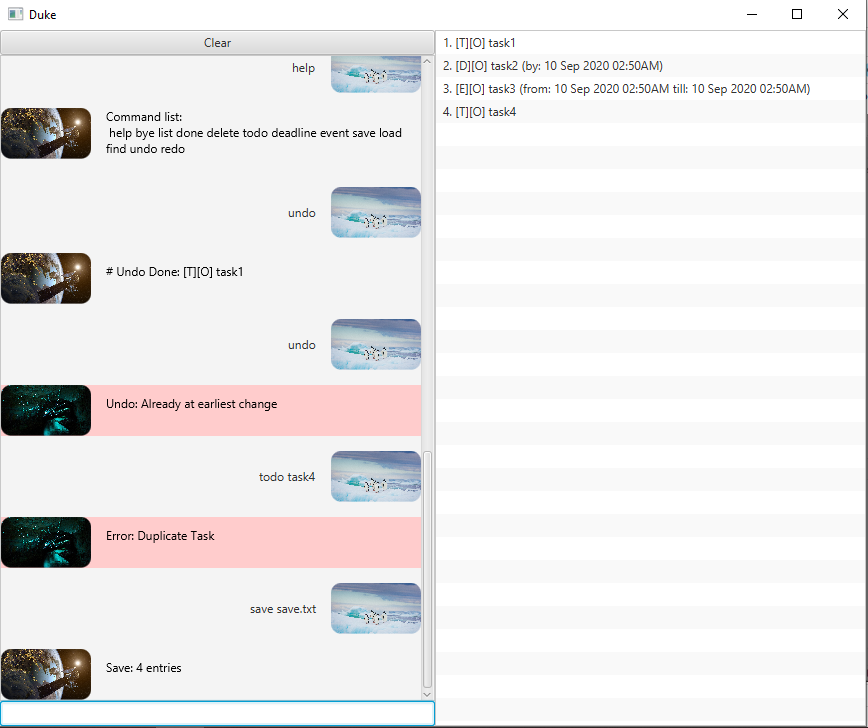
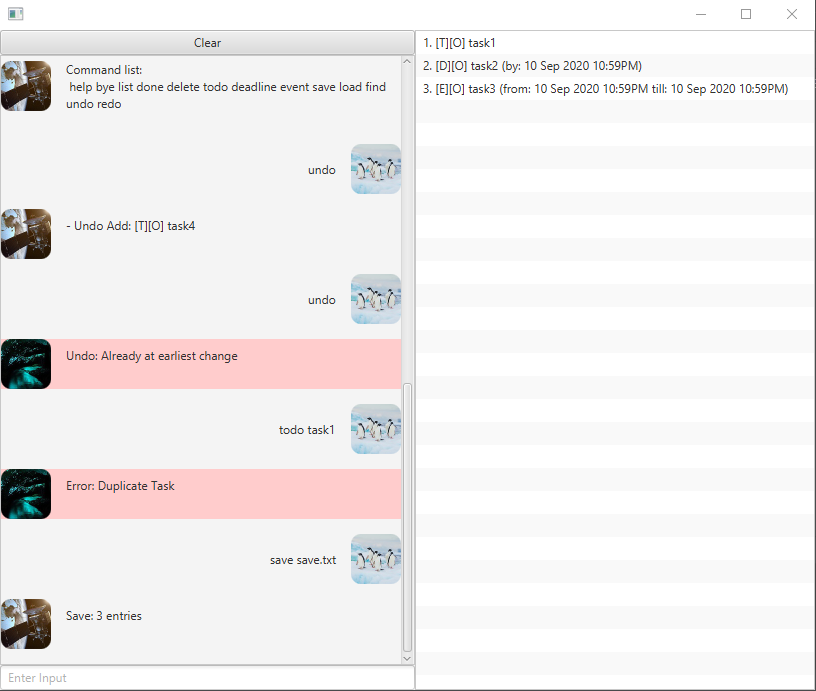
Code Cleanup

Changed region(s): [[0.0, 0.0, 1.0, 1.0], [0.0, 0.3039, 0.2757, 0.4255]]

diff --git a/src/main/java/duke/gui/controller/MainWindow.java b/src/main/java/duke/gui/controller/MainWindow.java
@@ -24,7 +24,7 @@ import javafx.scene.layout.VBox;
  */
 public class MainWindow extends BorderPane {
 
-    private static final String WELCOME_MESSAGE = "Welcome to Duke!";
+    private static final String WELCOME_MESSAGE = "Humans at your service!";
 
     @FXML
     private VBox dialogContainer;
@@ -57,11 +57,11 @@ public class MainWindow extends BorderPane {
         errorStream = new ByteArrayOutputStream();
         System.setErr(new PrintStream(errorStream));
 
-        // Duke variables
+        // Initialize Duke variables
         ObservableList<Task> taskList = FXCollections.observableArrayList();
         dukeData = new DukeData(taskList);
 
-        // fxml variables
+        // Initialize taskView
         taskView.setItems(taskList);
         taskView.setCellFactory(listView -> new IndexListCell<>());
 
@@ -133,10 +133,12 @@ public class MainWindow extends BorderPane {
         assert dialogContainer != null;
         assert userInput != null;
 
-        if (!userInput.isBlank()) {
-            Pane inputBubble = ChatBubble.getUserDialog(userInput, userAvatar);
-            dialogContainer.getChildren().add(inputBubble);
+        if (userInput.isBlank()) {
+            return;
         }
+
+        Pane inputBubble = ChatBubble.getUserDialog(userInput, userAvatar);
+        dialogContainer.getChildren().add(inputBubble);
     }
 
     /**
@@ -147,10 +149,12 @@ public class MainWindow extends BorderPane {
         assert dialogContainer != null;
         assert outputMessage != null;
 
-        if (!outputMessage.isBlank()) {
-            Pane outputBubble = ChatBubble.getDukeDialog(outputMessage, dukeAvatar);
-            dialogContainer.getChildren().add(outputBubble);
+        if (outputMessage.isBlank()) {
+            return;
         }
+
+        Pane outputBubble = ChatBubble.getDukeDialog(outputMessage, dukeAvatar);
+        dialogContainer.getChildren().add(outputBubble);
     }
 
     /**
@@ -161,10 +165,12 @@ public class MainWindow extends BorderPane {
         assert dialogContainer != null;
         assert errorMessage != null;
 
-        if (!errorMessage.isBlank()) {
-            Pane errorBubble = ChatBubble.getErrorDialog(errorMessage, errorAvatar);
-            dialogContainer.getChildren().add(errorBubble);
+        if (errorMessage.isBlank()) {
+            return;
         }
+
+        Pane errorBubble = ChatBubble.getErrorDialog(errorMessage, errorAvatar);
+        dialogContainer.getChildren().add(errorBubble);
     }
 
 }

diff --git a/src/main/java/duke/core/DukeLogic.java b/src/main/java/duke/core/DukeLogic.java
@@ -29,15 +29,15 @@ public class DukeLogic {
 
             // Add command to history
             if (command instanceof ReversibleExecutable) {
-                ReversibleExecutable reversibleCommand = (ReversibleExecutable) command;
-                dukeData.getHistory().add(reversibleCommand);
+                dukeData.getHistory().add((ReversibleExecutable) command);
             }
 
-        } catch (DukeParserException e) { // Input cannot be parsed, notify user
-            System.err.println(e.getMessage());
-        } catch (CommandException e) { // Command cannot be executed
+        } catch (DukeParserException | CommandException e) {
+            // DukeParserException: Input cannot be parsed
+            // CommandException: Command cannot be executed
             System.err.println(e.getMessage());
         }
+
     }
 
 }

diff --git a/src/main/java/duke/core/parser/CsvToTask.java b/src/main/java/duke/core/parser/CsvToTask.java
@@ -59,14 +59,13 @@ public enum CsvToTask {
      * Factory method to obtain a Task from its csv representation
      * @param csv The csv representation of a task.
      * @return The task represented by the csv
-     * @throws Exception If the csv cannot be parsed
      */
     public static Task parse(String csv) {
         assert csv != null;
         try (Scanner scanner = new Scanner(csv)) {
             scanner.useDelimiter(",");
             return CsvToTask.valueOf(scanner.next()).parse(scanner);
-        } catch (Exception e) { // Many types of parse error
+        } catch (Exception e) { // Many errors can occur when parsing
             System.err.println("Corrupt entry: " + csv);
             return null;
         }

diff --git a/src/main/java/duke/Main.java b/src/main/java/duke/Main.java
@@ -16,17 +16,20 @@ public class Main {
 
         String usage = "Usage: java -jar duke.jar <cmd|gui>";
 
-        if (args.length == 0) {
+        if (args.length != 1) {
             System.out.println(usage);
             return;
         }
 
         // Run either CMD or GUI depending on program argument
-        if (args[0].equals("cmd")) {
+        switch (args[0]) {
+        case "cmd":
             runCmd(args);
-        } else if (args[0].equals("gui")) {
+            break;
+        case "gui":
             runGui(args);
-        } else {
+            break;
+        default:
             System.out.println(usage);
         }
 

diff --git a/src/main/java/duke/gui/Duke.java b/src/main/java/duke/gui/Duke.java
@@ -15,7 +15,7 @@ public class Duke extends Application {
 
     /**
      * Entry point of Duke GUI
-     * @param stage
+     * @param stage the default stage
      */
     @Override
     public void start(Stage stage) {
@@ -24,6 +24,7 @@ public class Duke extends Application {
             BorderPane bp = fxmlLoader.load();
             Scene scene = new Scene(bp);
             stage.setScene(scene);
+            stage.setTitle("Penguin Town");
             stage.show();
         } catch (IOException e) {
             e.printStackTrace();

diff --git a/src/main/java/duke/gui/IndexListCell.java b/src/main/java/duke/gui/IndexListCell.java
@@ -12,7 +12,7 @@ public class IndexListCell<T> extends ListCell<T> {
     @Override
     protected void updateItem(T item, boolean empty) {
         super.updateItem(item, empty);
-        if (item == null) {
+        if (empty) {
             setText("");
             return;
         }

diff --git a/src/main/java/duke/gui/controller/ChatBubble.java b/src/main/java/duke/gui/controller/ChatBubble.java
@@ -50,6 +50,7 @@ public class ChatBubble extends HBox {
         clip.setArcWidth(20);
         clip.setArcHeight(20);
 
+        // Clip the avatarView
         avatarView.setClip(clip);
     }
 
